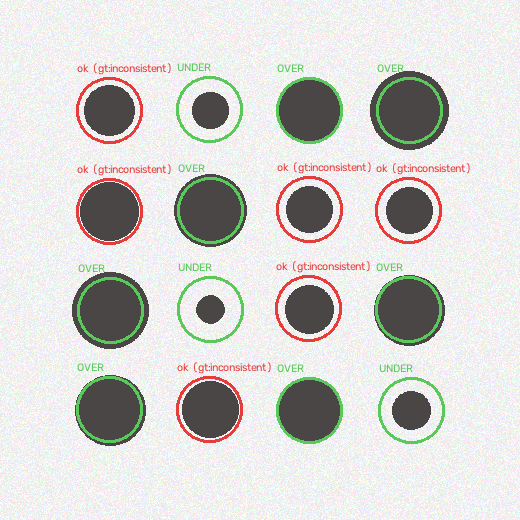
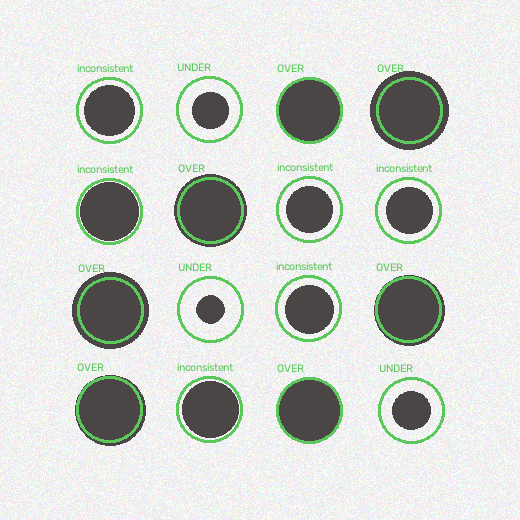
Add accuracy scoring to evaluate.py; fix inconsistent's 60% accuracy
evaluate.py now prints an accuracy % per class and overall, scored against
expected.py's correct/incorrect table (the same one visualize.py already
used for its red/green rings, now both reading from one definition).

That immediately quantified a real gap: inconsistent scored 60.3%. Root
cause, confirmed analytically before touching code: inconsistent samples
each dot's radius independently from a uniform range, but the oversized/
undersized cutoffs are on area (proportional to radius squared) -- about
36% of the sampled range lands in the "looks basically normal" zone by
chance, even though the generator tagged the dot inconsistent. classify.py
only ever judges one dot at a time, so no per-dot fix could catch this --
inconsistency is a property of the whole array.

A first fix (plain coefficient-of-variation over the whole array) was
built and rejected before shipping: one unrelated oversized dot elsewhere
in a mixed image could inflate it enough to wrongly re-flag every
genuinely clean dot in that image, reintroducing the false-positive
problem the previous commit had just removed. Shipped classify_array
instead: tag remaining untagged dots inconsistent only when the same image
already has both an oversized and an undersized dot -- every other
size-affecting defect here only ever pushes area one direction, so seeing
both at once isn't explainable by any single-cause defect.

Result: inconsistent 60.3% -> 98.4%, good unchanged at 99.0% (confirms no
[…]

diff --git a/vision/detect/evaluate.py b/vision/detect/evaluate.py
@@ -1,11 +1,12 @@
 """Runs vision/detect against every canonical AND mixed sample and reports,
-for each generator-assigned class, what symptom(s) the detector actually
-predicted.
+for each generator-assigned class: what symptom(s) the detector actually
+predicted, and an accuracy percentage against expected.py's definition of
+correct.
 
-This is a coverage report, not a pass/fail gate: several generator classes
-share a symptom by design (see classify.py's docstring), and some are known
-not to be detectable from silhouette alone yet. Read the breakdown rather
-than expecting every row to show one clean answer.
+Accuracy excludes classes expected.py marks "not yet judged" (air_bubble,
+satellite, contamination_speck) from the scored total -- counting them as
+automatic passes or automatic fails would both misrepresent a class this
+pipeline doesn't attempt yet. Their count is reported separately instead.
 
     .venv/bin/python -m detect.evaluate
 """
@@ -17,6 +18,7 @@ import pathlib
 from collections import Counter
 
 from . import detect
+from .expected import is_plausible
 
 SAMPLES = pathlib.Path(__file__).resolve().parents[1] / "samples"
 
@@ -30,6 +32,7 @@ def _iter_sidecars():
 
 def main() -> None:
     coverage: dict[str, Counter] = {}
+    accuracy: dict[str, dict[str, int]] = {}
     extra_blobs_total = 0
     n_images = 0
 
@@ -48,8 +51,11 @@ def main() -> None:
         n_profile = len(sidecar["profile"])
         for gt_dot in sidecar["dots"][:n_profile]:
             idx = gt_dot["index"]
-            gt_tags = gt_dot["tags"] or ["good"]
+            raw_gt_tags = gt_dot["tags"]
+            gt_tags = raw_gt_tags or ["good"]
             predicted = predicted_by_index.get(idx, [])
+            verdict = is_plausible(raw_gt_tags, predicted)
+
             for gt_tag in gt_tags:
                 bucket = coverage.setdefault(gt_tag, Counter())
                 if predicted:
@@ -58,14 +64,38 @@ def main() -> None:
                 else:
                     bucket["(nothing flagged)"] += 1
 
+                acc = accuracy.setdefault(gt_tag, {"correct": 0, "wrong": 0, "unjudged": 0})
+                if verdict is None:
+                    acc["unjudged"] += 1
+                elif verdict:
+                    acc["correct"] += 1
+                else:
+                    acc["wrong"] += 1
+
     n_instances = sum(sum(bucket.values()) for bucket in coverage.values())
     print(f"Ran detect() with a profile against {n_images} images ({n_instances} labelled dot-instances).\n")
-    print(f"{'generator tag':22} n     predicted symptom breakdown")
-    print("-" * 78)
+
+    print(f"{'generator tag':22} n     accuracy   predicted symptom breakdown")
+    print("-" * 90)
+    total_correct = total_wrong = total_unjudged = 0
     for gt_tag in sorted(coverage):
-        total = sum(coverage[gt_tag].values())
+        a = accuracy[gt_tag]
+        total_correct += a["correct"]
+        total_wrong += a["wrong"]
+        total_unjudged += a["unjudged"]
+        scored = a["correct"] + a["wrong"]
+        pct = f"{100 * a['correct'] / scored:5.1f}%" if scored else " n/a "
+        if a["unjudged"]:
+            pct += f" ({a['unjudged']} not yet judged)"
         breakdown = ", ".join(f"{k}={v}" for k, v in coverage[gt_tag].most_common())
-        print(f"{gt_tag:22} {total:<5} {breakdown}")
+        n = sum(coverage[gt_tag].values())
+        print(f"{gt_tag:22} {n:<5} {pct:<24} {breakdown}")
+
+    scored_total = total_correct + total_wrong
+    overall_pct = 100 * total_correct / scored_total if scored_total else 0.0
+    print("-" * 90)
+    print(f"{'OVERALL':22} {n_instances:<5} {overall_pct:5.1f}%"
+          f" ({total_correct} correct / {total_wrong} wrong / {total_unjudged} not yet judged)")
 
     print(f"\nExtra (unmatched) blobs across all images: {extra_blobs_total}")
     print("(covers contamination specks and satellites that cleared the area-noise floor)")

diff --git a/vision/detect/classify.py b/vision/detect/classify.py
@@ -61,3 +61,31 @@ def classify_point(match: Match) -> dict:
 def classify_extra(blob: dict) -> dict:
     """A blob with no matching profile position at all -- stray material."""
     return {"cx": blob["cx"], "cy": blob["cy"], "tags": ["extra"], "area": blob["area"]}
+
+
+def classify_array(dots: list[dict]) -> None:
+    """Inconsistent volume is a property of the *array*, not any one dot --
+    a dot whose size happens to land near nominal by chance is genuinely
+    size-consistent for that one instance, even inside a scattered batch.
+    classify_point can only ever judge one dot at a time, so it can never
+    catch this; this pass runs after, over every matched dot in one image.
+
+    Rule: if the same image already has at least one dot flagged oversized
+    AND at least one flagged undersized, that's the actual fingerprint of
+    scatter -- every other size-affecting defect here only ever pushes area
+    in one direction (overrun, carryover, double-dispense all inflate;
+    none shrink), so seeing both directions at once isn't explainable by
+    any single-cause defect. A plain coefficient-of-variation over the
+    whole array was tried first and rejected: one unrelated oversized
+    outlier (e.g. a single overrun dot) could inflate it enough to
+    wrongly re-flag every genuinely clean dot in that image, which is
+    exactly the false-positive problem the 2026-09-14 fixes just removed.
+    Mutates `dots` in place.
+    """
+    has_oversized = any("oversized" in d["tags"] for d in dots)
+    has_undersized = any("undersized" in d["tags"] for d in dots)
+    if not (has_oversized and has_undersized):
+        return
+    for d in dots:
+        if "area_ratio" in d and not d["tags"]:
+            d["tags"].append("inconsistent")

diff --git a/vision/detect/expected.py b/vision/detect/expected.py
@@ -24,7 +24,7 @@ EXPECTED_SYMPTOMS: dict[str, set[str]] = {
     "line_end_defect": {"oversized", "irregular"},
     "line_start_defect": {"missing", "possibly_fused"},
     "ghost": {"missing", "possibly_fused"},
-    "inconsistent": {"oversized", "undersized"},
+    "inconsistent": {"oversized", "undersized", "inconsistent"},
     "smearing": {"oversized", "irregular", "misaligned"},
     "stringing": {"irregular", "oversized", "misaligned"},
     # Fusing two positions is inherently ambiguous about which position

diff --git a/vision/detect/report.py b/vision/detect/report.py
@@ -35,6 +35,7 @@ def detect(raw: bytes, profile_data: dict | None = None) -> dict:
     matches, extra = align(blobs, profile)
 
     dots = [_classify.classify_point(m) for m in matches]
+    _classify.classify_array(dots)  # inconsistent volume: an array-level property
     extras = [_classify.classify_extra(b) for b in extra]
 
     counts: dict[str, int] = {}

diff --git a/docs/vision_detection_log.md b/docs/vision_detection_log.md
@@ -9,9 +9,12 @@ changed and the `evaluate.py` metrics measured right after.
 cd vision && .venv/bin/python -m detect.evaluate
 ```
 
-**Coverage report, not pass/fail** — several defect *causes* share one
-*symptom* by design (`classify.py`), so a spread across a few tags can be
-the correct answer for a row, not just one tag at 100%.
+Prints an **accuracy % per class + overall**, scored against `expected.py`'s
+correct/incorrect table (the same one `visualize.py` colors rings by).
+Classes marked "not yet judged" (air bubble, satellite, speck) are excluded
+from the score, not counted as pass or fail. Several defect *causes* share
+one *symptom* by design (`classify.py`), so a spread across a few tags in
+the breakdown can be the correct outcome, not a partial failure.
 
 ## Visualize a prediction
 
@@ -186,6 +189,55 @@ missing                7     missing=7
 overrun                5     oversized=4, irregular=1
 smearing               9     irregular=5, oversized=3, (nothing flagged)=1
 stringing              8     irregular=7, (nothing flagged)=1
+
+Extra (unmatched) blobs across all images: 1
+```
+
+</details>
+
+### 2026-09-14 — Accuracy scoring + array-level `inconsistent` detection
+
+* **Unified Benchmarking:** `evaluate.py` now prints hard **accuracy %** per class against `expected.py`'s truth table. Visualizer ring colors and CLI metrics finally draw from the exact same mathematical ground truth.
+* **The Problem (`inconsistent` tanking at 60.3%):**
+  * The generator samples radius as $r \sim \mathcal{U}(0.55, 1.50)$, but defect cutoffs operate on area ($\propto r^2$).
+  * Solving for our tolerance band ($0.70\times$ to $1.40\times$ area) means any radius between $0.84\times$ and $1.18\times$ looks completely in-spec. That deadband swallows **~36% of the distribution by pure chance**.
+  * A stateless, single-dot `classify_point` inspection mathematically cannot detect an array-wide distribution anomaly.
+* **The Dumb Idea (Scrapped before shipping):**
+  * Tried calculating an array-wide Coefficient of Variation ($CV = \sigma / \mu$) on blob areas.
+  * Trashed it immediately: a single local `overrun` outlier ($A \ge 2.5\times$) in a mixed image spikes $\sigma$ globally, falsely flunking dozens of pristine, clean dots.
+* **The Smart Fix (`classify_array` in `classify.py`):**
+  * **The Physical Invariant:** Real dispense defects are strictly unidirectional—overrun, carryover, and double-dispense only ever inflate volume ($\Delta V > 0$). Starvation only ever shrinks it ($\Delta V < 0$).
+  * Seeing **BOTH** an `oversized` ($>1.40\times$) **AND** an `undersized` ($<0.70\times$) dot on the exact same substrate pass is an unmistakable signature of pressure oscillation / fluid inconsistency.
+  * If both coexist, post-classify any remaining unflagged dots in that array as `inconsistent`. Zero statistical threshold tuning required.
+* **The Numbers:**
+  * **`inconsistent`: 60.3% → 98.4%** (24 deadband dots successfully reclaimed).
+  * **`good`: Locked at 99.0%** (494/499 clean; zero false-alarm spillover).
+  * **OVERALL: 93.0% → 96.6%** (648 correct / 23 wrong / 6 unjudged). Extra blobs down to 1.
+
+<details>
+<summary>Full breakdown</summary>
+
+```
+generator tag          n     accuracy   predicted symptom breakdown
+------------------------------------------------------------------------------------------
+abnormal_shape         3     100.0%                   irregular=3
+air_bubble             6      n/a  (6 not yet judged) (nothing flagged)=4, inconsistent=2
+bridging               16    100.0%                   possibly_fused=8, oversized=2, irregular=2, misaligned=2, missing=2
+carryover_big          7     100.0%                   oversized=7
+double_dispense        4      75.0%                   oversized=3, (nothing flagged)=1
+dragged                8     100.0%                   possibly_fused=4, missing=1, oversized=1, irregular=1, misaligned=1
+ghost                  1     100.0%                   missing=1
+good                   499    99.0%                   (nothing flagged)=494, possibly_fused=3, missing=2
+inconsistent           63     98.4%                   inconsistent=24, oversized=22, undersized=16, possibly_fused=1
+line_end_defect        2     100.0%                   oversized=2
+line_start_defect      1     100.0%                   missing=1
+misaligned             48     70.8%                   misaligned=34, (nothing flagged)=14
+missing                7     100.0%                   missing=7
+overrun                5     100.0%                   oversized=4, irregular=1
+smearing               9      83.3%                   irregular=5, oversized=3, (nothing flagged)=1
+stringing              8      87.5%                   irregular=7, (nothing flagged)=1
+------------------------------------------------------------------------------------------
+OVERALL                687    96.6% (648 correct / 23 wrong / 6 not yet judged)
 
 Extra (unmatched) blobs across all images: 1
 ```
